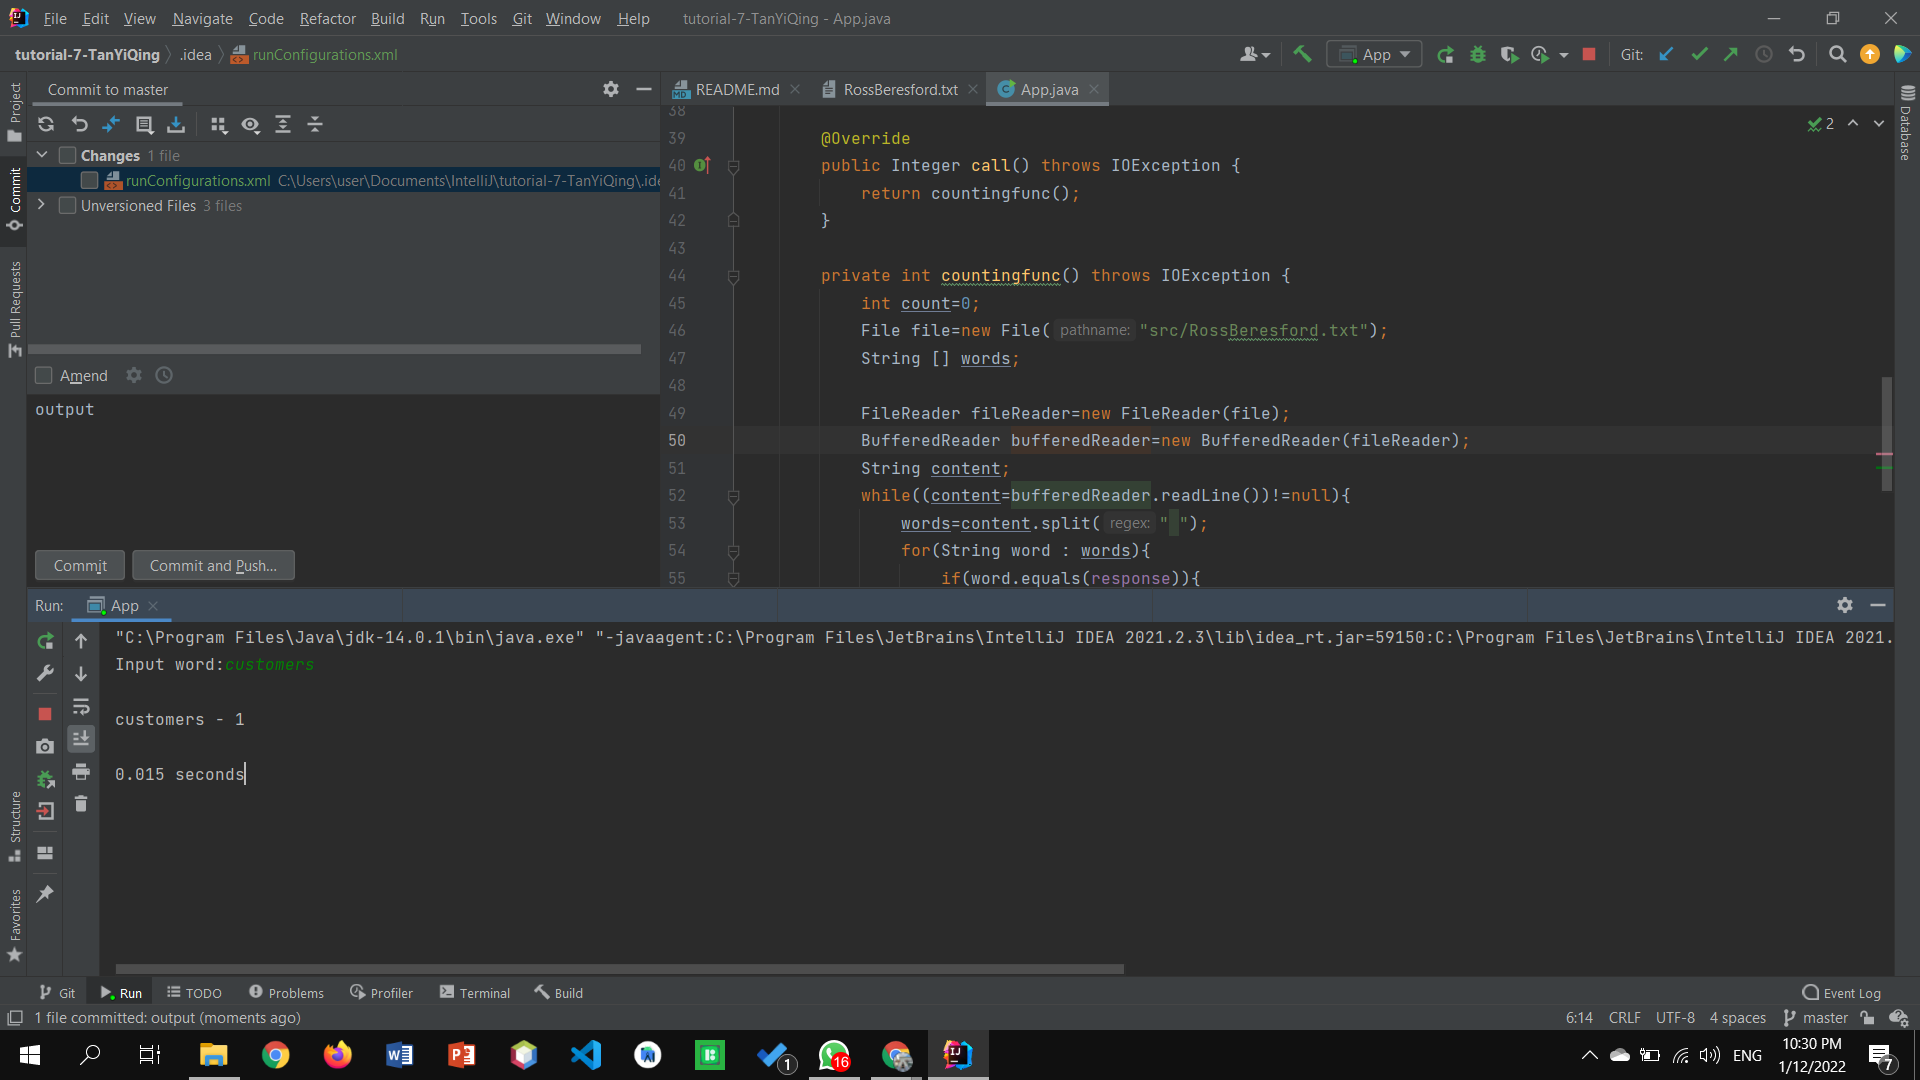
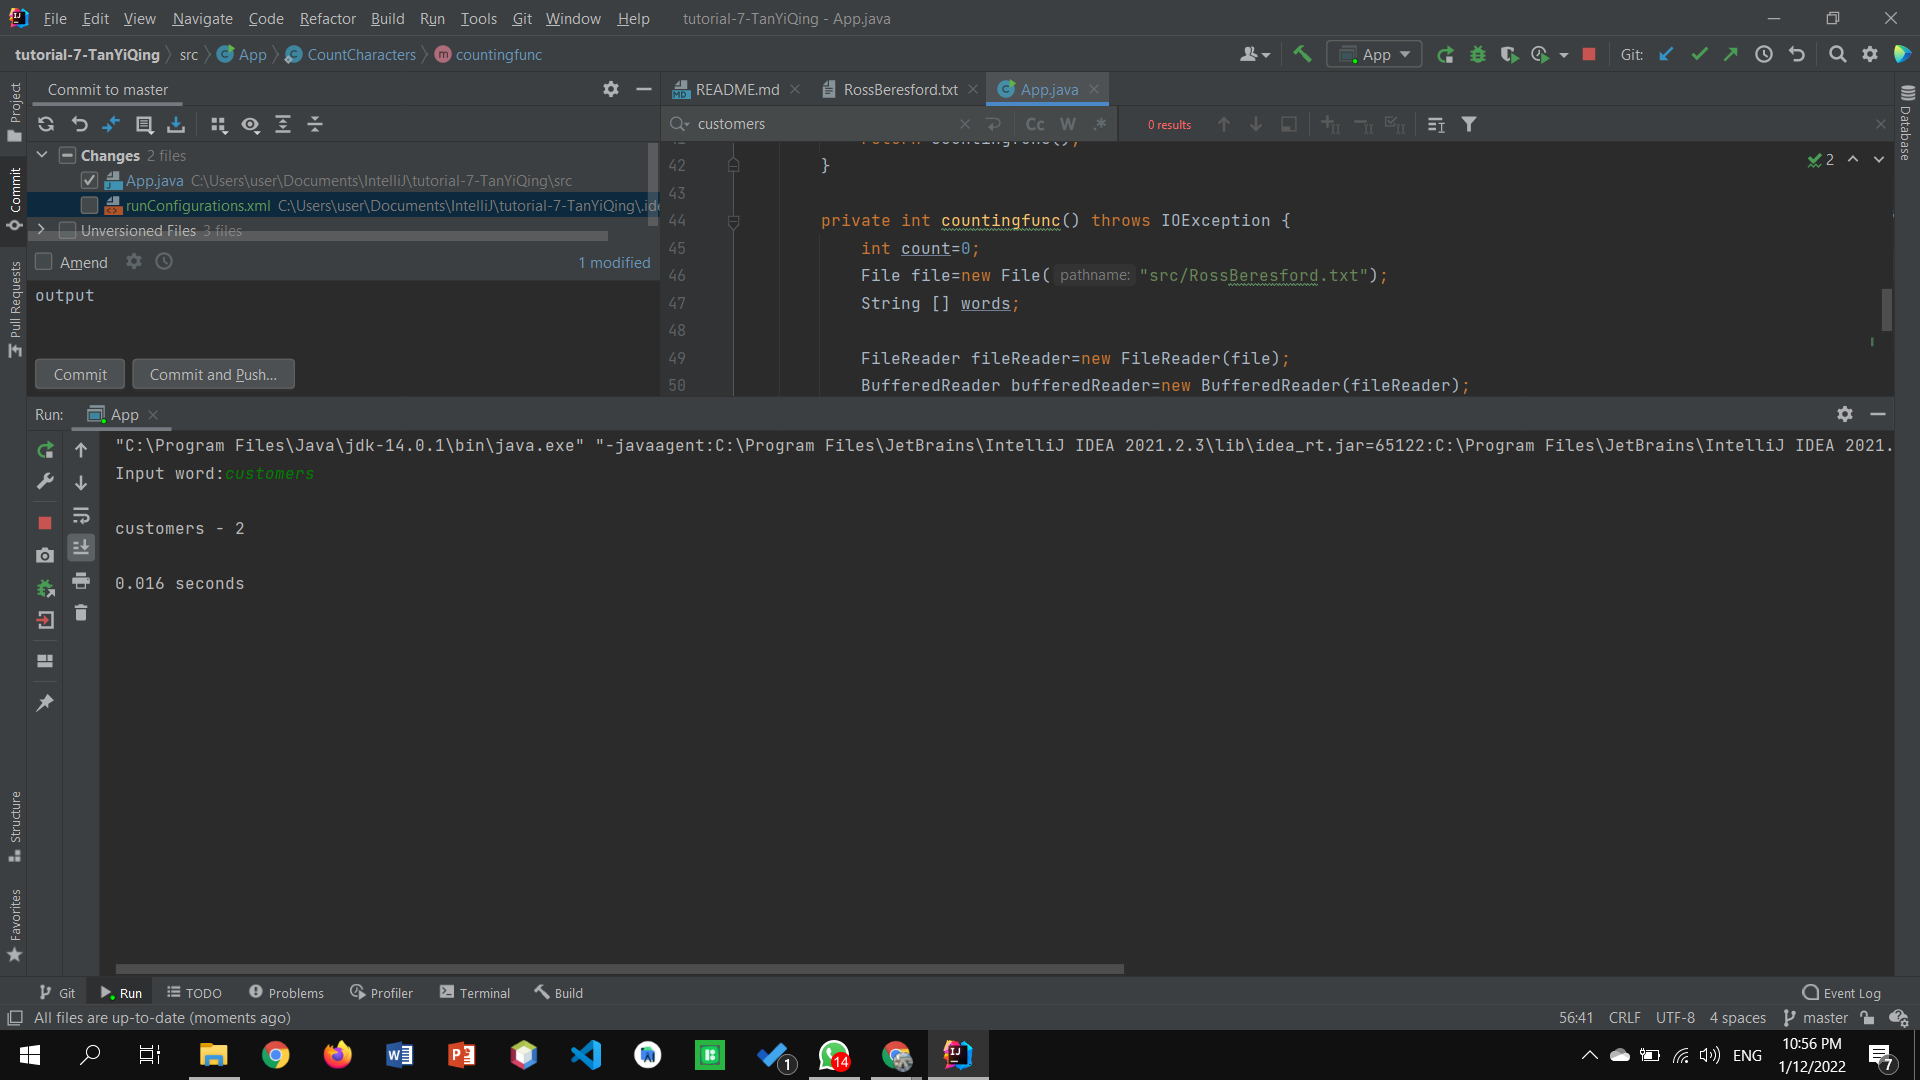
output

diff --git a/src/App.java b/src/App.java
@@ -52,6 +52,8 @@ public class App {
             while((content=bufferedReader.readLine())!=null){
                 words=content.split(" ");
                 for(String word : words){
+                    word=word.replace(",","");
+                    word=word.replace(".","");
                     if(word.equals(response)){
                         count++;
                     }
